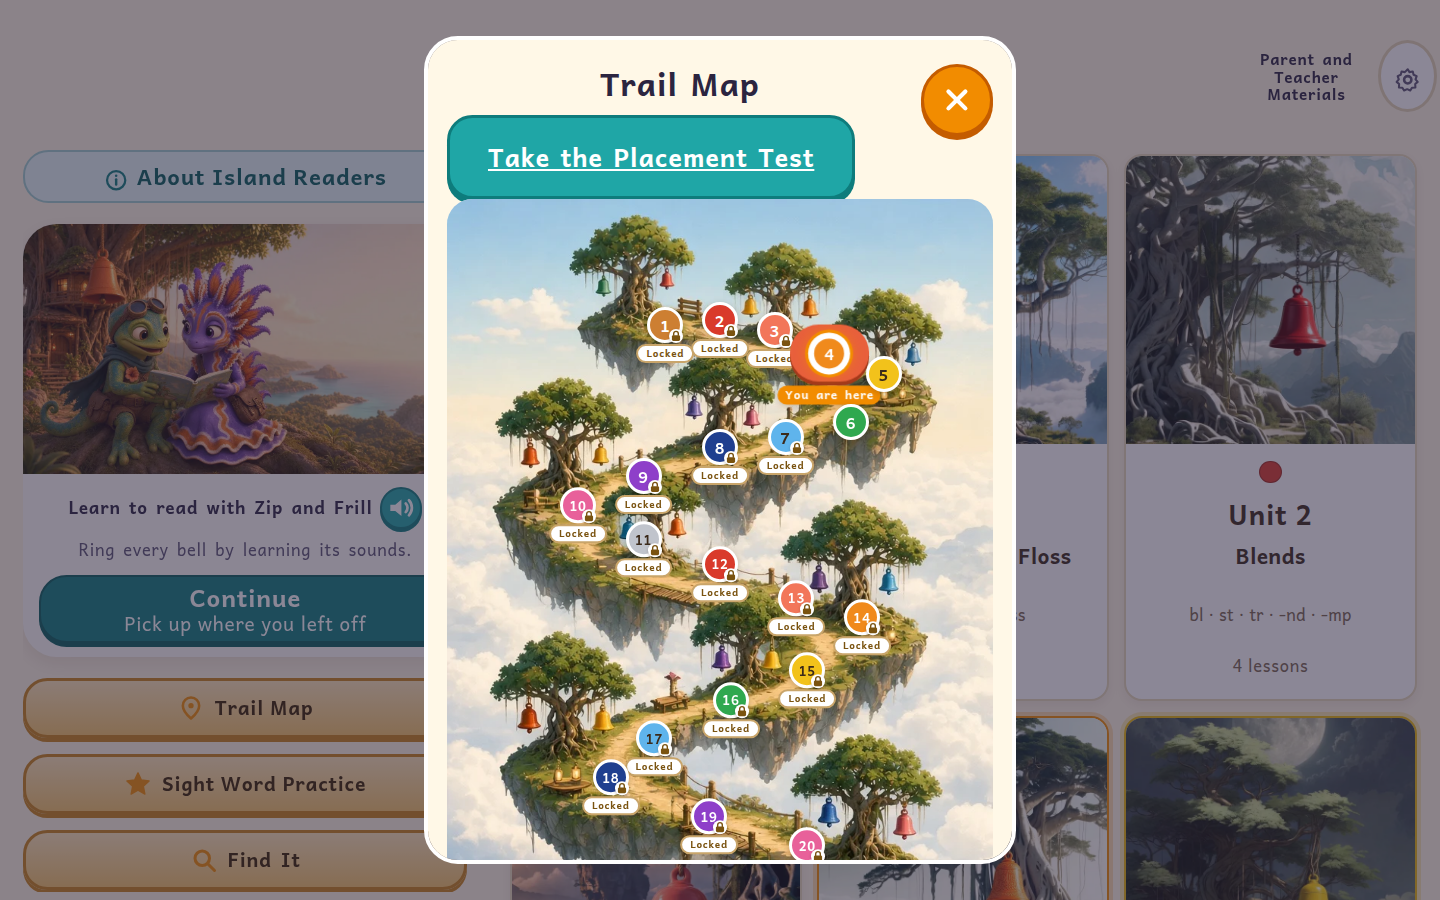
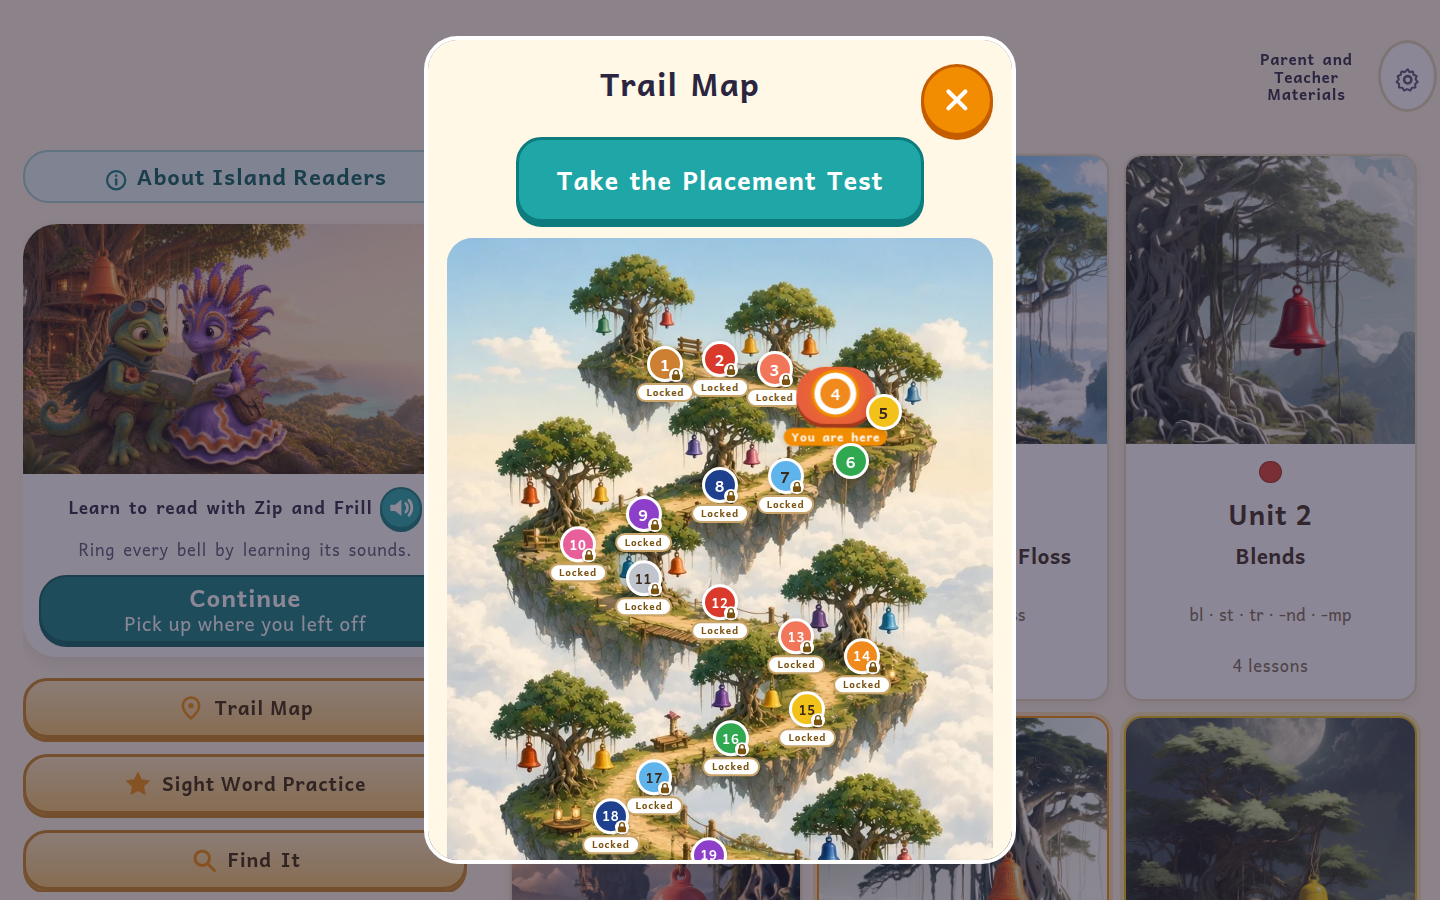
Center the placement test button in the trail map popup.
The button sits under the Trail Map title, its words stay centered, and the link underline is gone.

Changed region(s): [[0.3125, 0.1244, 0.6875, 0.9644]]

diff --git a/styles.css b/styles.css
@@ -2669,7 +2669,8 @@ html.teach .u5step .itext{font-size:32px}
 .trail-x{position:sticky;top:.15rem;float:right;z-index:4;display:inline-flex;align-items:center;justify-content:center;width:3.4rem;height:3.4rem;margin:0 0 .2rem .4rem;border-radius:50%;border:3px solid #C45C00;background:#F28C00;color:#fff;box-shadow:0 4px 0 #C45C00}
 .trail-x .ico{width:1.6rem;height:1.6rem}
 .trailpop h2{margin:.1rem 0 .55rem;text-align:center;font-family:Andika,sans-serif}
-.trailpop .trailgo{margin-top:0}
+.trailpop .trailgo{clear:both;display:flex;width:max-content;max-width:100%;margin:.2rem auto .75rem;text-decoration:none;text-align:center;align-items:center;justify-content:center}
+.trailpop .trailgo:hover,.trailpop .trailgo:focus,.trailpop .trailgo:visited{text-decoration:none}
 @media (max-width:700px){
   .gamegrid.pics{grid-template-columns:repeat(3,minmax(0,1fr));gap:.4rem}
   .gamegrid.pics .gamepic,.gamegrid.pics .gamepair{height:3.2rem;min-height:3.2rem;max-height:3.2rem}
